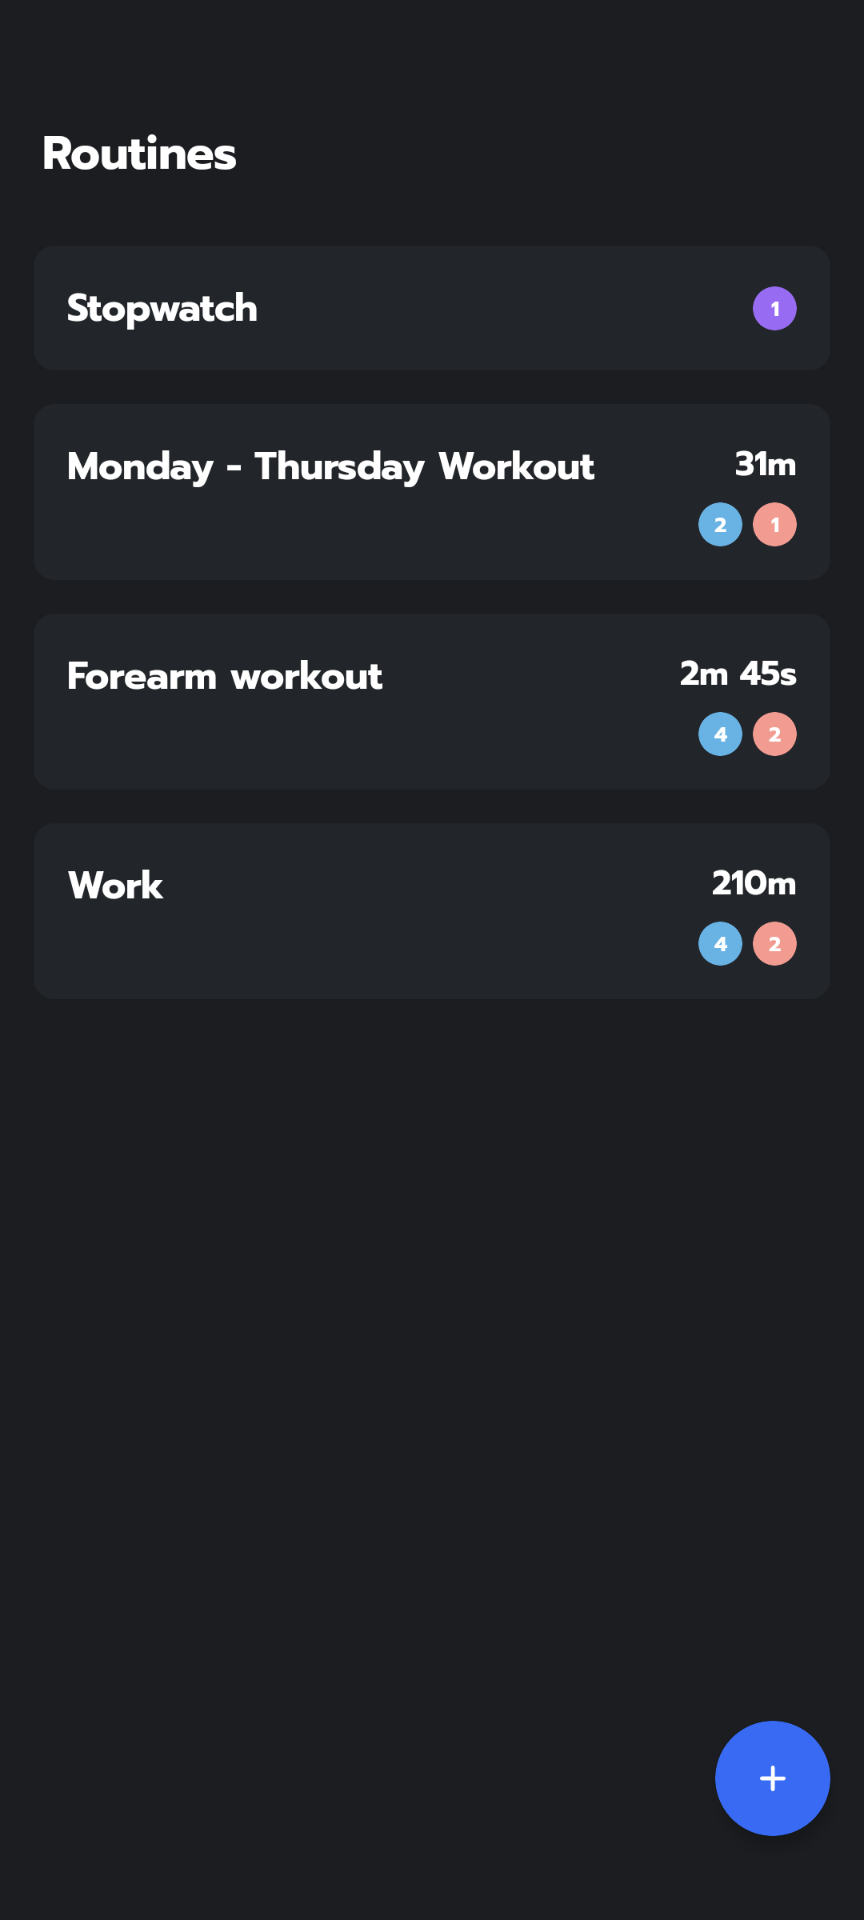
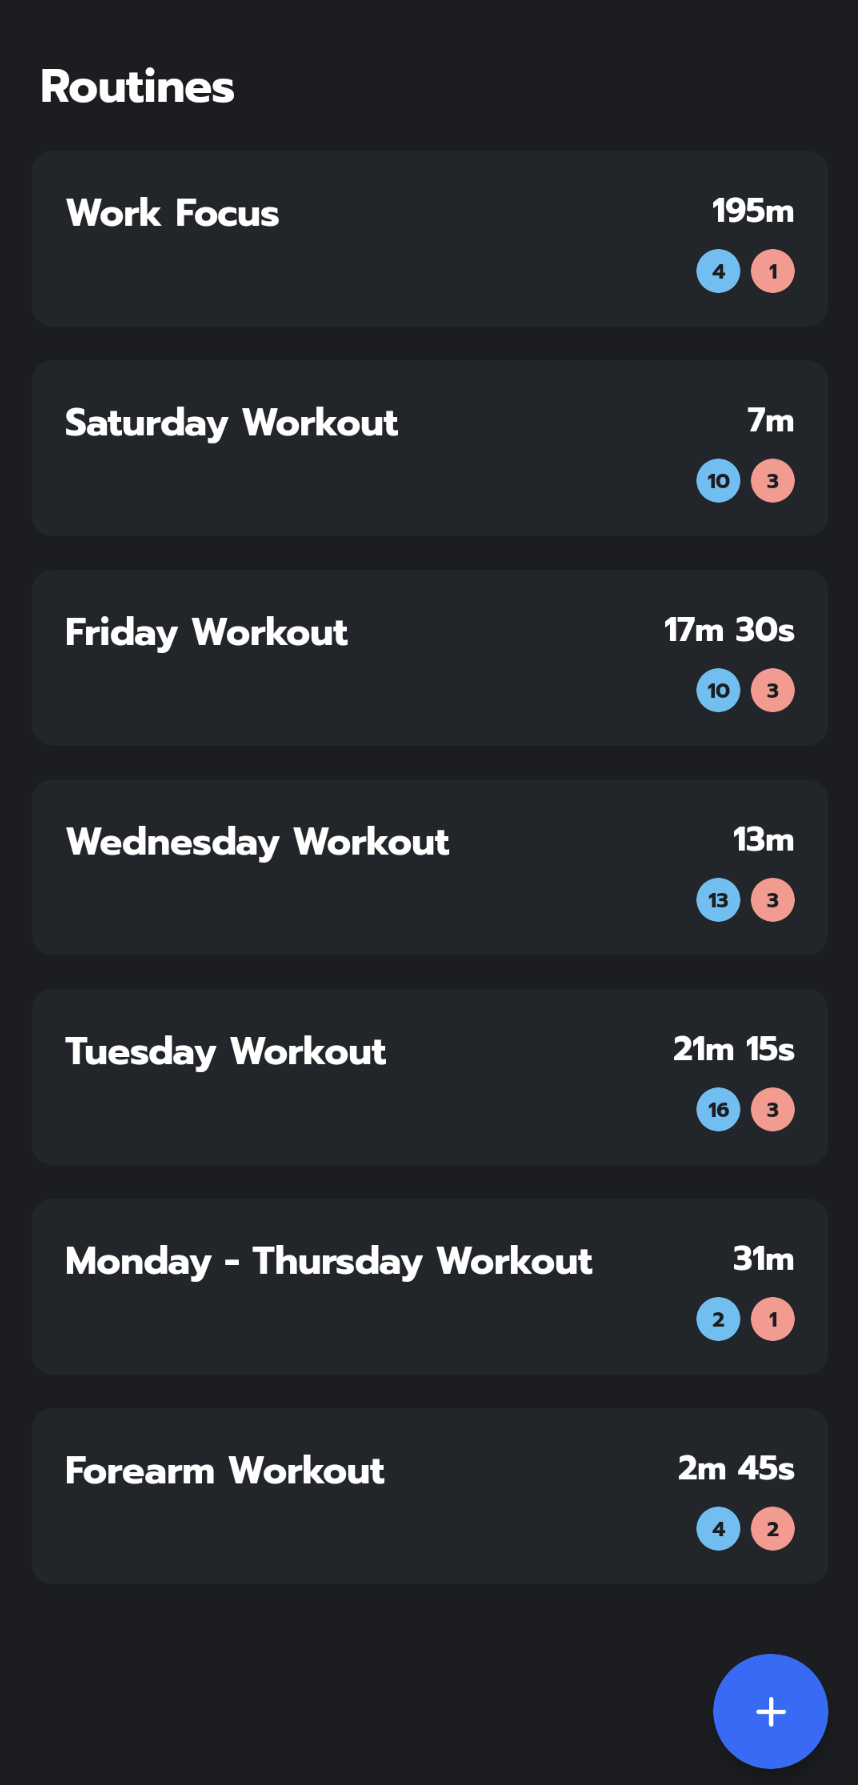
Update screenshots

diff --git a/README.md b/README.md
@@ -14,7 +14,11 @@
 
 ### Screenshot
 
-<img width="250" src="https://github.com/guerraenrico/tempo/blob/master/art/1.png?raw=true" alt="Routine List" />
-<img width="250" src="https://github.com/guerraenrico/tempo/blob/master/art/2.jpg?raw=true" alt="Routine Summary" />
-<img width="250" src="https://github.com/guerraenrico/tempo/blob/master/art/3.png?raw=true" alt="Segment Detail" />
-<img width="250" src="https://github.com/guerraenrico/tempo/blob/master/art/4.jpg?raw=true" alt="Timer" />
+<p float="left">
+    <img width="250" src="https://github.com/guerraenrico/tempo/blob/master/art/1.png?raw=true" alt="Routine List" />
+    <img width="250" src="https://github.com/guerraenrico/tempo/blob/master/art/2.png?raw=true" alt="Routine Summary" />
+</p>
+<p float="left">
+    <img width="250" src="https://github.com/guerraenrico/tempo/blob/master/art/3.png?raw=true" alt="Segment Detail" />
+    <img width="250" src="https://github.com/guerraenrico/tempo/blob/master/art/4.png?raw=true" alt="Timer" />
+</p>
